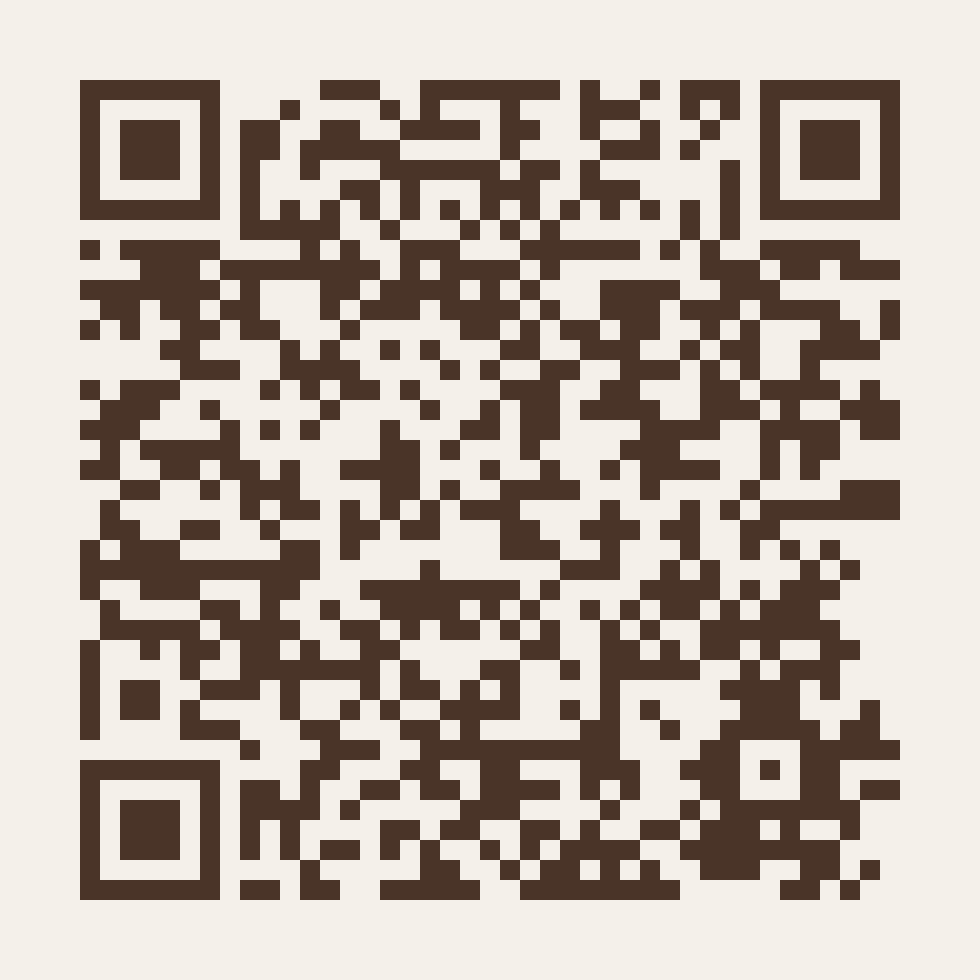
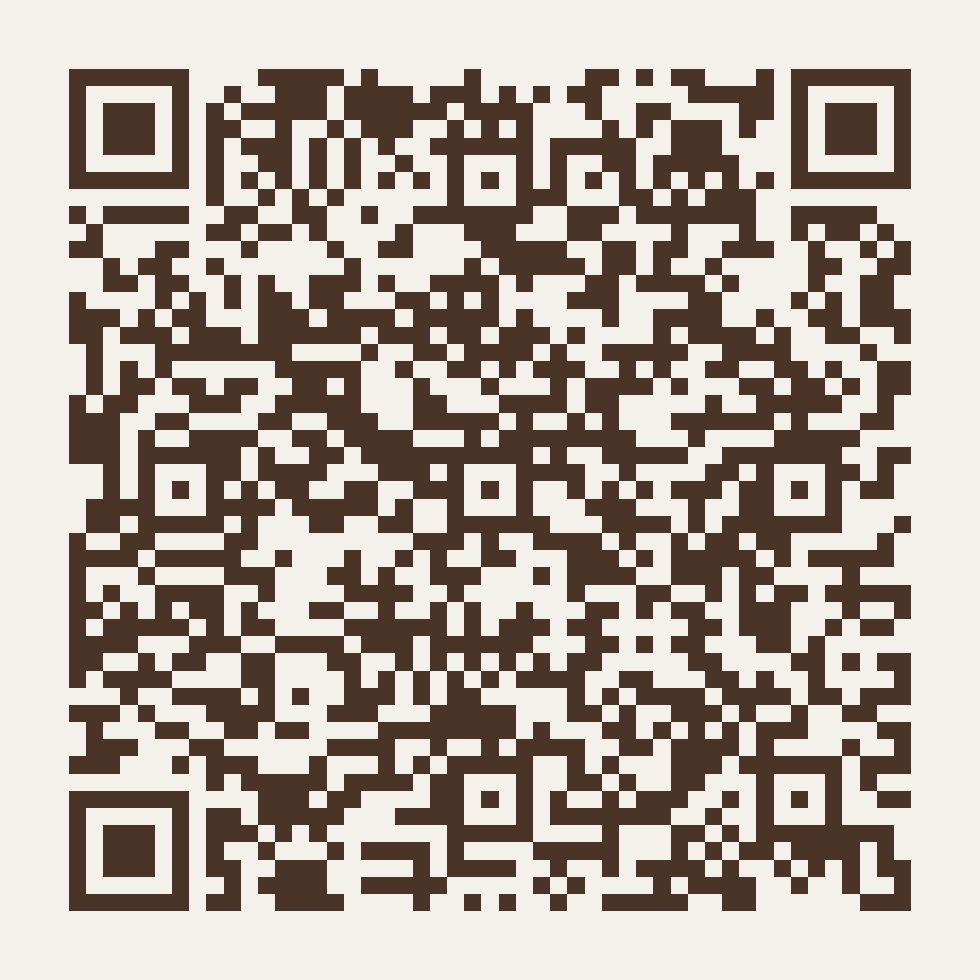
Actualiza CV y enlaza QR a la version vigente

diff --git a/index.html b/index.html
@@ -1515,29 +1515,31 @@
         <div class="space-y-5 text-base leading-relaxed" style="color: rgba(237,224,200,0.58);">
           <p data-reveal data-delay="200">
             Soy <strong style="color: var(--cream); font-weight: 600;">Valentino Levano Encinas</strong> — Lino —
-            diseñador UX/UI y gráfico ubicado en Callao, Perú. Autodidacta por naturaleza: combino mi formación en
-            Cibertec con mentoring externo y práctica constante.
+            diseñador gráfico y UX/UI con experiencia en proyectos digitales para clientes reales. Me especializo en
+            diseño de interfaces, identidad visual y diseño web, transformando ideas en soluciones claras, funcionales
+            y consistentes.
           </p>
           <p data-reveal data-delay="300">
-            Cuento con experiencia real diseñando para clientes en producción: la plataforma de CIERUM (proptech
-            activa), Giantucchi (IA para empresas) y señalética para el Circuito Mágico del Agua. Cada píxel tiene una
-            razón de ser.
+            He trabajado en el rediseño UX/UI de los sitios publicados de Giantucchi y Cierum, además de desarrollar
+            proyectos de señalética, aplicaciones, packaging y branding. Llevo las propuestas desde el diseño hasta su
+            implementación frontend mediante herramientas de IA como Codex y Antigravity.
           </p>
           <p data-reveal data-delay="400">
-            Busco proyectos donde aportar soluciones visuales claras — branding, packaging, UX/UI o señalética — y
-            seguir creciendo junto a clientes reales.
+            Integro inteligencia artificial en mis procesos creativos, la generación y edición visual y la optimización
+            de workflows. Busco crear experiencias digitales y sistemas visuales con intención, cuidando cada detalle
+            desde el concepto hasta el resultado final.
           </p>
         </div>
 
         <div class="mt-10" data-reveal data-delay="500">
-          <div class="text-xs tracking-widest uppercase mb-4" style="color: rgba(237,224,200,0.28);">Servicios</div>
+          <div class="text-xs tracking-widest uppercase mb-4" style="color: rgba(237,224,200,0.28);">Competencias</div>
           <div class="flex flex-wrap gap-2">
             <span class="skill-tag">Diseño UX/UI</span>
-            <span class="skill-tag">Piezas Publicitarias</span>
-            <span class="skill-tag">Diseño de Packaging</span>
-            <span class="skill-tag">Señalética & Wayfinding</span>
+            <span class="skill-tag">Diseño Web</span>
             <span class="skill-tag">Branding</span>
-            <span class="skill-tag">Identidad Visual</span>
+            <span class="skill-tag">Frontend asistido por IA</span>
+            <span class="skill-tag">Packaging</span>
+            <span class="skill-tag">Wayfinding</span>
           </div>
         </div>
 
@@ -1624,6 +1626,19 @@
         </div>
 
         <div class="mt-8" data-reveal data-delay="600">
+          <div class="text-xs tracking-widest uppercase mb-4" style="color: rgba(237,224,200,0.28);">IA &amp; Desarrollo</div>
+          <div class="flex flex-wrap gap-2">
+            <span class="skill-tag">Codex</span>
+            <span class="skill-tag">Antigravity</span>
+            <span class="skill-tag">ChatGPT</span>
+            <span class="skill-tag">Adobe Firefly</span>
+            <span class="skill-tag">Generación y edición visual</span>
+            <span class="skill-tag">Prompting</span>
+            <span class="skill-tag">Optimización de workflows</span>
+          </div>
+        </div>
+
+        <div class="mt-8" data-reveal data-delay="600">
           <div class="text-xs tracking-widest uppercase mb-4" style="color: rgba(237,224,200,0.28);">Formación</div>
           <div class="space-y-2">
             <div class="flex items-start gap-3">
@@ -1637,16 +1652,21 @@
             <div class="flex items-start gap-3">
               <div class="w-1 h-1 rounded-full mt-2 shrink-0" style="background: rgba(237,224,200,0.35);"></div>
               <div>
-                <span style="color: var(--cream); font-size: 0.82rem; font-weight: 500;">Mentoring UX/UI —
-                  Giantucchi</span>
+                <span style="color: var(--cream); font-size: 0.82rem; font-weight: 500;">Mentoring UX/UI y Diseño Gráfico — Giantucchi</span>
                 <span class="text-xs ml-2" style="color: rgba(237,224,200,0.3);">2026</span>
               </div>
             </div>
             <div class="flex items-start gap-3">
               <div class="w-1 h-1 rounded-full mt-2 shrink-0" style="background: rgba(237,224,200,0.35);"></div>
               <div>
-                <span style="color: var(--cream); font-size: 0.82rem; font-weight: 500;">Inglés Intermedio —
-                  ICPNA</span>
+                <span style="color: var(--cream); font-size: 0.82rem; font-weight: 500;">Adobe Illustrator, Photoshop e InDesign — Lima Educa</span>
+                <span class="text-xs ml-2" style="color: rgba(237,224,200,0.3);">2025 (Concluido)</span>
+              </div>
+            </div>
+            <div class="flex items-start gap-3">
+              <div class="w-1 h-1 rounded-full mt-2 shrink-0" style="background: rgba(237,224,200,0.35);"></div>
+              <div>
+                <span style="color: var(--cream); font-size: 0.82rem; font-weight: 500;">Inglés, Nivel Intermedio — ICPNA</span>
                 <span class="text-xs ml-2" style="color: rgba(237,224,200,0.3);">2025</span>
               </div>
             </div>
@@ -1686,11 +1706,11 @@
             <!-- QR Code (Left Side) -->
             <div class="sm:col-span-4 flex flex-col items-center justify-center p-3 rounded-xl"
               style="background: rgba(237,224,200,0.03); border: 1px solid rgba(237,224,200,0.1);">
-              <img src="cv_qr.png" alt="Código QR CV / vCard"
+              <img src="cv_qr.png?v=20260820-3" alt="Código QR CV / vCard"
                 class="w-[105px] h-[105px] object-contain rounded-lg shadow-sm" />
               <span class="text-[0.62rem] uppercase tracking-wider mt-2" style="color: rgba(237,224,200,0.35);">Escanear</span>
               <a href="javascript:void(0)"
-                onclick="openPdfModal('assets/documents/CV_Valentino_Levano.pdf', 'CV - Valentino Levano')"
+                onclick="openPdfModal('assets/documents/CV_Valentino_Levano_Actualizado_2026.pdf?v=20260820-1458', 'CV - Valentino Levano')"
                 class="mt-3 inline-flex items-center gap-1.5 px-3 py-1.5 rounded-lg text-xs font-semibold tracking-wide text-[var(--darker)] bg-[var(--cream)] hover:bg-white transition-all shadow-md hover:scale-[1.02]">
                 <svg width="13" height="13" viewBox="0 0 24 24" fill="none" stroke="currentColor" stroke-width="2.5"
                   stroke-linecap="round" stroke-linejoin="round">
@@ -2542,7 +2562,7 @@
         <!-- QR Code (Left Side) -->
         <div
           class="sm:col-span-5 flex flex-col items-center justify-center p-5 rounded-2xl bg-[rgba(237,224,200,0.03)] border border-[rgba(237,224,200,0.1)]">
-          <img src="cv_qr.png" alt="Código QR CV / vCard"
+          <img src="cv_qr.png?v=20260820-3" alt="Código QR CV / vCard"
             class="w-[130px] h-[130px] object-contain rounded-xl shadow-md" />
           <span class="text-xs uppercase tracking-wider mt-3 text-[rgba(237,224,200,0.4)]">Escanear</span>
           <a href="javascript:void(0)"
@@ -2804,7 +2824,7 @@
     function openCvFromContact() {
       closeContactModal();
       window.setTimeout(() => {
-        openPdfModal('assets/documents/CV_Valentino_Levano.pdf', 'CV - Valentino Levano');
+        openPdfModal('assets/documents/CV_Valentino_Levano_Actualizado_2026.pdf?v=20260820-1458', 'CV - Valentino Levano');
       }, 320);
     }
 

diff --git a/mobile.html b/mobile.html
@@ -1478,12 +1478,15 @@
       <div class="section-label" data-reveal>Quién soy</div>
       <h2 class="section-title" data-reveal data-delay="100">Sobre <em>mí</em></h2>
       <div class="bio-text" style="margin-top:1.5rem;" data-reveal data-delay="200">
-        <p>Soy <strong>Valentino Levano Encinas</strong> — Lino — diseñador UX/UI y gráfico ubicado en Callao, Perú.
-          Autodidacta por naturaleza: combino mi formación en Cibertec con mentoring externo y práctica constante.</p>
-        <p>Experiencia real diseñando para clientes en producción: CIERUM (proptech activa), Giantucchi (IA para
-          empresas) y señalética para el Circuito Mágico del Agua. Cada píxel tiene una razón de ser.</p>
-        <p>Busco proyectos donde aportar soluciones visuales claras — branding, packaging, UX/UI o señalética — y seguir
-          creciendo junto a clientes reales.</p>
+        <p>Soy <strong>Valentino Levano Encinas</strong> — Lino — diseñador gráfico y UX/UI con experiencia en proyectos
+          digitales para clientes reales. Me especializo en diseño de interfaces, identidad visual y diseño web,
+          transformando ideas en soluciones claras, funcionales y consistentes.</p>
+        <p>He trabajado en el rediseño UX/UI de los sitios publicados de Giantucchi y Cierum, además de desarrollar
+          proyectos de señalética, aplicaciones, packaging y branding. Llevo las propuestas desde el diseño hasta su
+          implementación frontend mediante herramientas de IA como Codex y Antigravity.</p>
+        <p>Integro inteligencia artificial en mis procesos creativos, la generación y edición visual y la optimización
+          de workflows. Busco crear experiencias digitales y sistemas visuales con intención, cuidando cada detalle
+          desde el concepto hasta el resultado final.</p>
       </div>
       <div class="stats-row" data-reveal data-delay="200">
         <div class="glass-card" style="padding:1.1rem;">
@@ -1504,11 +1507,11 @@
         </div>
       </div>
       <div style="margin-top:2rem;" data-reveal data-delay="300">
-        <div class="footer-contact-title" style="margin-bottom:0.75rem;">Servicios</div>
+        <div class="footer-contact-title" style="margin-bottom:0.75rem;">Competencias</div>
         <div class="skills-wrap">
-          <span class="skill-tag">Diseño UX/UI</span><span class="skill-tag">Piezas Publicitarias</span>
-          <span class="skill-tag">Packaging</span><span class="skill-tag">Señalética</span>
-          <span class="skill-tag">Branding</span><span class="skill-tag">Identidad Visual</span>
+          <span class="skill-tag">Diseño UX/UI</span><span class="skill-tag">Diseño Web</span>
+          <span class="skill-tag">Branding</span><span class="skill-tag">Frontend asistido por IA</span>
+          <span class="skill-tag">Packaging</span><span class="skill-tag">Wayfinding</span>
         </div>
       </div>
       <div style="margin-top:1.75rem;" data-reveal data-delay="300">
@@ -1561,6 +1564,15 @@
           </div>
         </div>
       </div>
+      <div style="margin-top:1.75rem;" data-reveal data-delay="350">
+        <div class="footer-contact-title" style="margin-bottom:0.75rem;">IA &amp; Desarrollo</div>
+        <div class="skills-wrap">
+          <span class="skill-tag">Codex</span><span class="skill-tag">Antigravity</span>
+          <span class="skill-tag">ChatGPT</span><span class="skill-tag">Adobe Firefly</span>
+          <span class="skill-tag">Generación y edición visual</span><span class="skill-tag">Prompting</span>
+          <span class="skill-tag">Optimización de workflows</span>
+        </div>
+      </div>
       <div style="margin-top:1.75rem;" data-reveal data-delay="400">
         <div class="footer-contact-title" style="margin-bottom:0.75rem;">Formación</div>
         <div class="formation-item">
@@ -1570,12 +1582,17 @@
         </div>
         <div class="formation-item">
           <div class="formation-dot"></div>
-          <div><span class="formation-name">Mentoring UX/UI — Giantucchi</span><span class="formation-year">2026</span>
+          <div><span class="formation-name">Mentoring UX/UI y Diseño Gráfico — Giantucchi</span><span class="formation-year">2026</span>
           </div>
         </div>
         <div class="formation-item">
           <div class="formation-dot"></div>
-          <div><span class="formation-name">Inglés Intermedio — ICPNA</span><span class="formation-year">2025</span>
+          <div><span class="formation-name">Adobe Illustrator, Photoshop e InDesign — Lima Educa</span><span class="formation-year">2025 (Concluido)</span>
+          </div>
+        </div>
+        <div class="formation-item">
+          <div class="formation-dot"></div>
+          <div><span class="formation-name">Inglés, Nivel Intermedio — ICPNA</span><span class="formation-year">2025</span>
           </div>
         </div>
       </div>
@@ -1585,7 +1602,7 @@
 
         <div style="display:flex;flex-direction:column;gap:0.65rem;">
           <!-- Ver CV Button -->
-          <a href="javascript:void(0)" onclick="openPdfModal('assets/documents/CV_Valentino_Levano.pdf', 'CV - Valentino Levano')" style="display:flex;align-items:center;gap:12px;padding:12px 14px;border-radius:10px;background:var(--cream);color:var(--darker);text-decoration:none;font-weight:700;font-size:0.82rem;box-shadow:0 3px 10px rgba(0,0,0,0.3);transition:transform 0.2s ease;">
+          <a href="javascript:void(0)" onclick="openPdfModal('assets/documents/CV_Valentino_Levano_Actualizado_2026.pdf?v=20260820-1458', 'CV - Valentino Levano')" style="display:flex;align-items:center;gap:12px;padding:12px 14px;border-radius:10px;background:var(--cream);color:var(--darker);text-decoration:none;font-weight:700;font-size:0.82rem;box-shadow:0 3px 10px rgba(0,0,0,0.3);transition:transform 0.2s ease;">
             <div style="width:30px;height:30px;border-radius:8px;background:rgba(26,15,10,0.12);display:flex;align-items:center;justify-content:center;flex-shrink:0;">
               <svg width="15" height="15" viewBox="0 0 24 24" fill="none" stroke="currentColor" stroke-width="2.5" stroke-linecap="round" stroke-linejoin="round"><path d="M14 2H6a2 2 0 0 0-2 2v16a2 2 0 0 0 2 2h12a2 2 0 0 0 2-2V8z"/><polyline points="14 2 14 8 20 8"/><line x1="12" y1="18" x2="12" y2="12"/><polyline points="9 15 12 18 15 15"/></svg>
             </div>
@@ -2378,7 +2395,7 @@
     function openCvFromContact() {
       closeContactModal();
       window.setTimeout(() => {
-        openPdfModal('assets/documents/CV_Valentino_Levano.pdf', 'CV - Valentino Levano');
+        openPdfModal('assets/documents/CV_Valentino_Levano_Actualizado_2026.pdf?v=20260820-1458', 'CV - Valentino Levano');
       }, 320);
     }
   </script>
